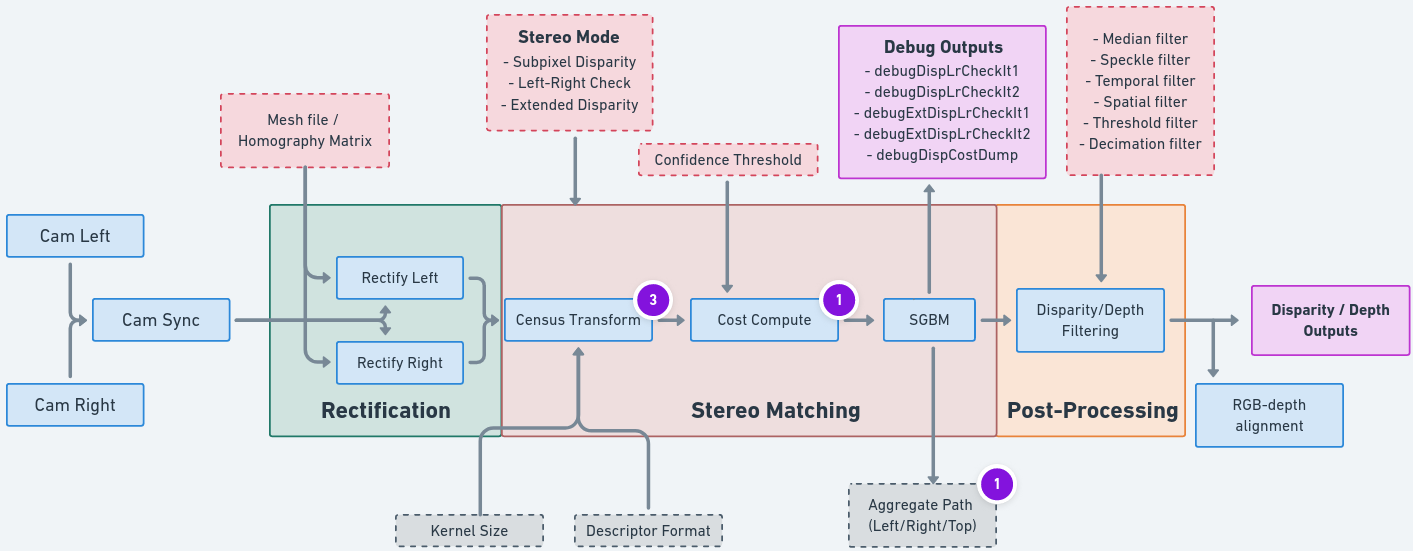
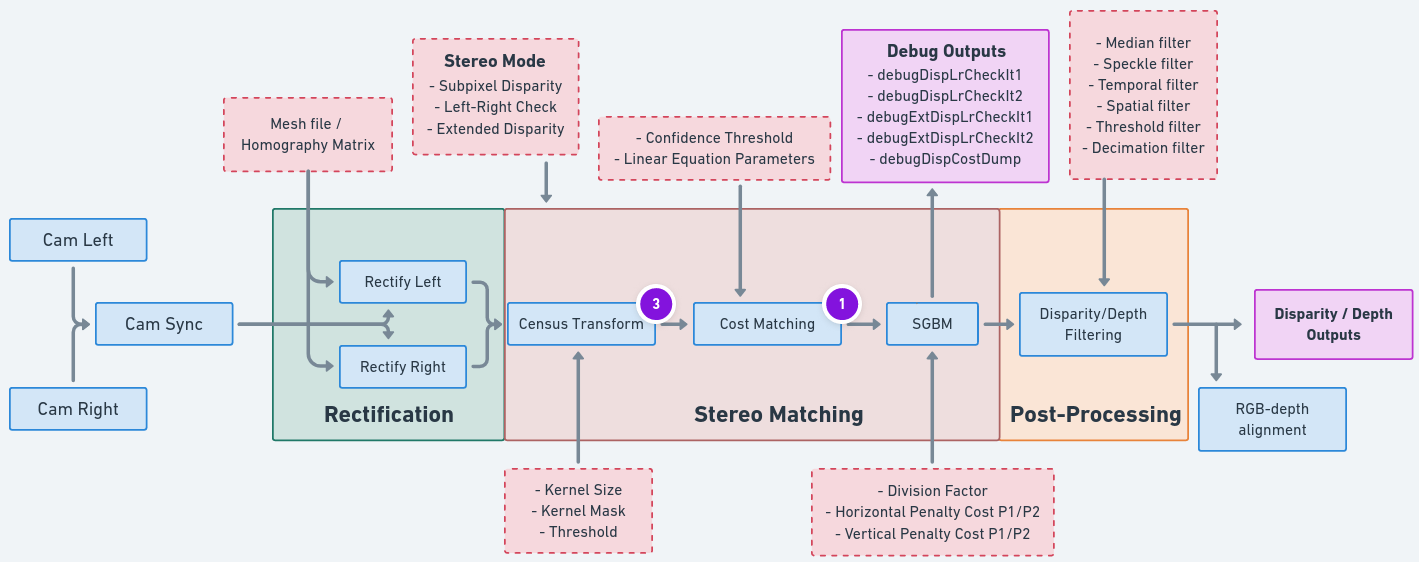
Updated img and filter descriptions

Changed region(s): [[0.0, 0.0, 1.0, 1.0], [0.7473, 0.0, 0.8719, 0.0309]]

diff --git a/docs/source/includes/depth-filters.rst b/docs/source/includes/depth-filters.rst
@@ -11,8 +11,8 @@
 
     .. tab:: Speckle
 
-        **Speckle Filter** is used to reduce the speckle noise. Compared to median filter, it's not applied through the
-        whole depth map, it only reduces noise.
+        **Speckle Filter** is used to reduce the speckle noise. Speckle noise is a region with huge
+        variance between neighboring depth pixels, and speckle filter tries to filter this region.
 
         .. doxygenstruct:: dai::RawStereoDepthConfig::PostProcessing::SpeckleFilter
             :project: depthai-core
@@ -20,8 +20,8 @@
 
     .. tab:: Temporal
 
-        **Temporal Filter** will take into account valid depth pixel from previous depth maps, so it preserves
-        the depth pixels through time.
+        **Temporal Filter** will take into account valid depth pixels from previous depth maps, so it does
+        time averaging to improve depth map.
 
         .. doxygenstruct:: dai::RawStereoDepthConfig::PostProcessing::TemporalFilter
             :project: depthai-core
@@ -38,7 +38,8 @@
 
     .. tab:: Threshold
 
-        **Threshold Filter** filters out all depth pixels outside the min/max threshold values.
+        **Threshold Filter** filters out all depth pixels outside the configured min/max
+        threshold values.
 
         .. doxygenstruct:: dai::RawStereoDepthConfig::PostProcessing::ThresholdFilter
             :project: depthai-core
